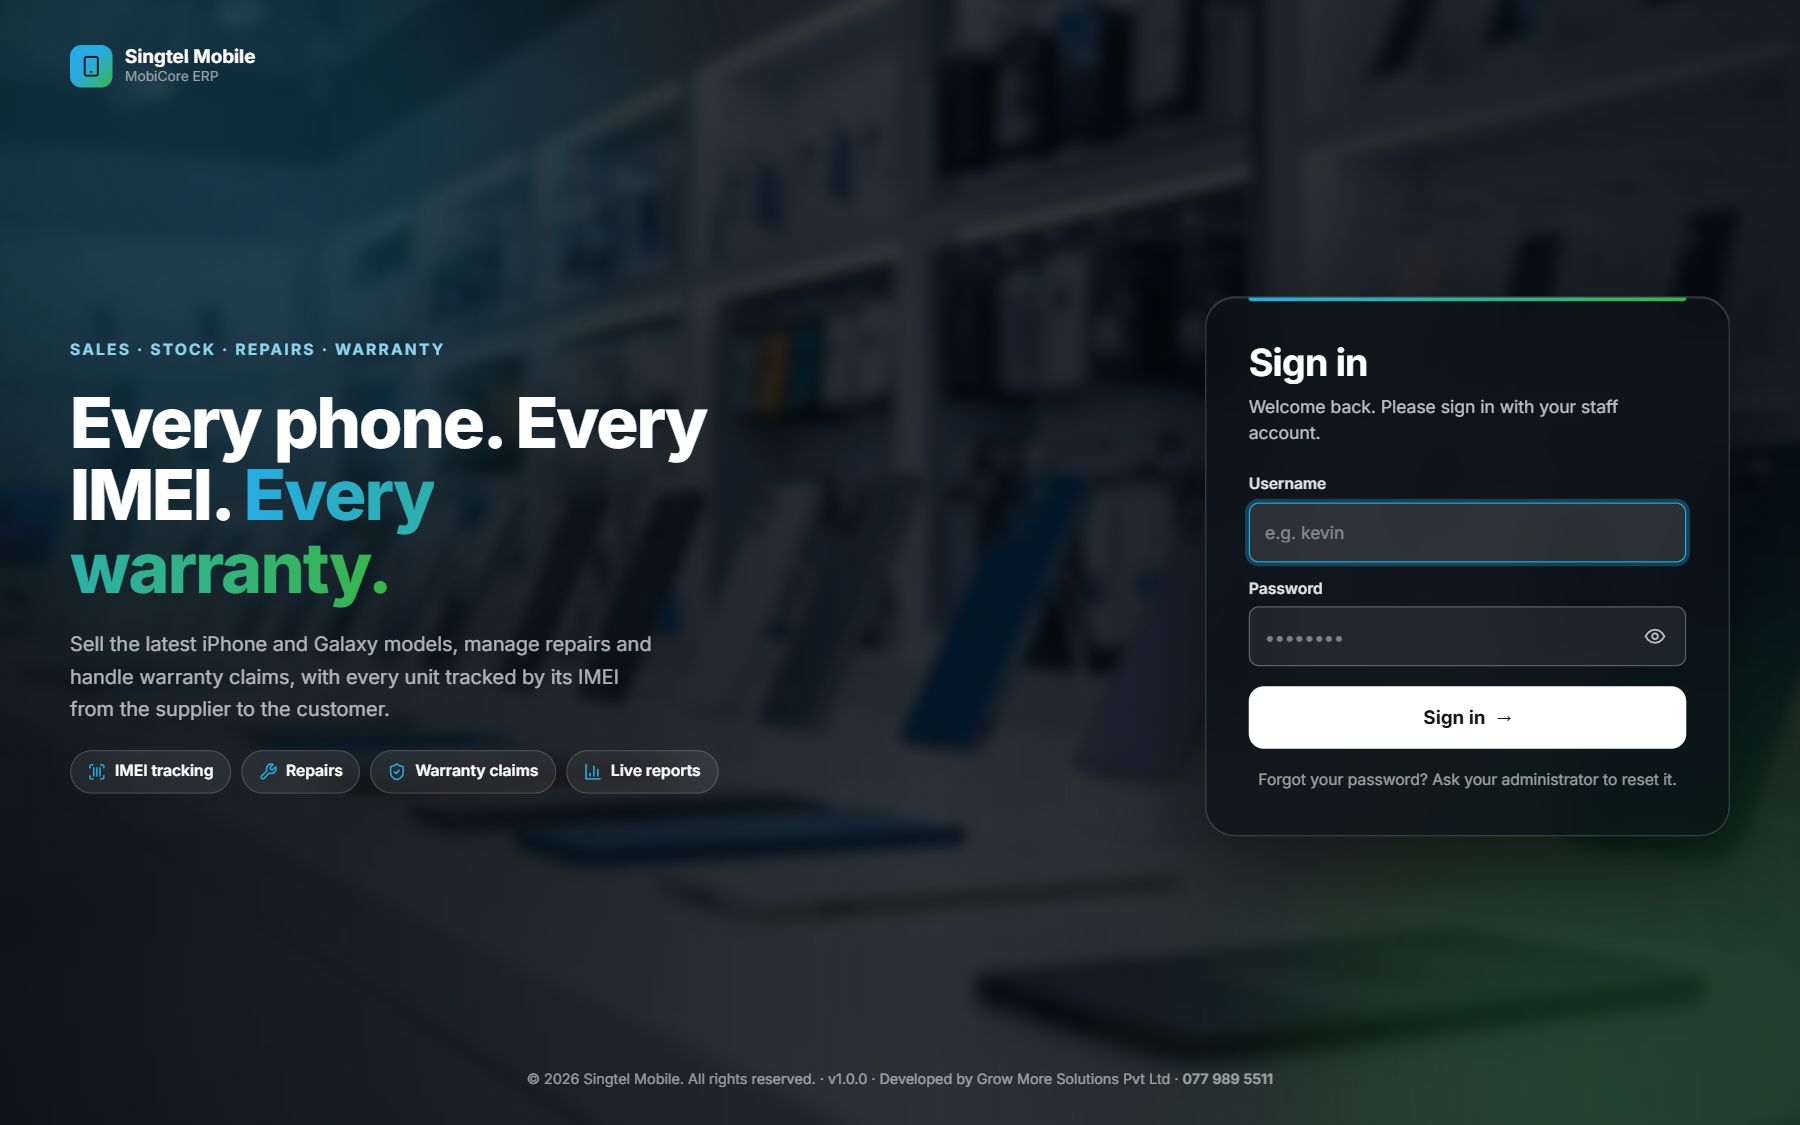
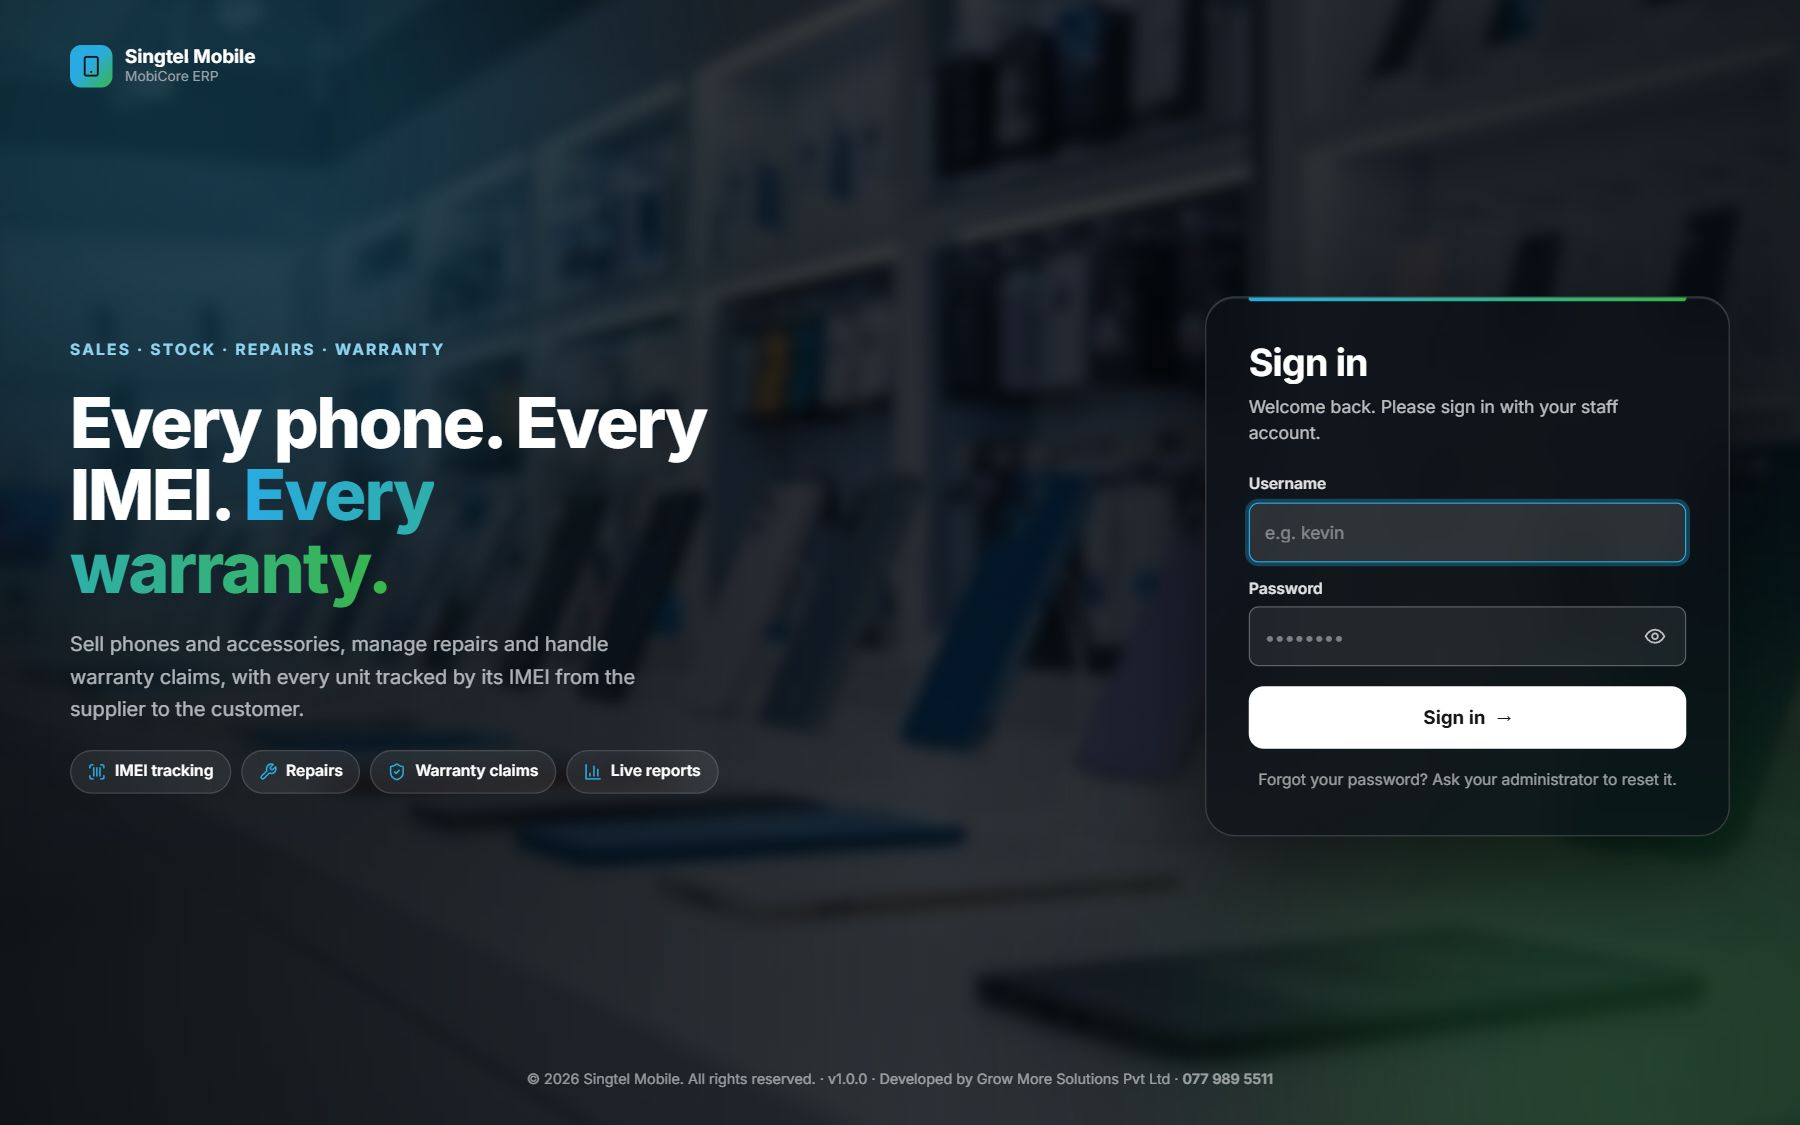
Login: brand-neutral description

Changed region(s): [[0.0311, 0.56, 0.3733, 0.6533]]

diff --git a/public/assets/js/app.js b/public/assets/js/app.js
@@ -103,7 +103,7 @@ function renderLogin() {
       <section class="lg-copy">
         <div class="lg-eyebrow">Sales · Stock · Repairs · Warranty</div>
         <h1>Every phone. Every IMEI. <span class="hero-grad">Every warranty.</span></h1>
-        <p>Sell the latest iPhone and Galaxy models, manage repairs and handle warranty claims, with every unit tracked by its IMEI from the supplier to the customer.</p>
+        <p>Sell phones and accessories, manage repairs and handle warranty claims, with every unit tracked by its IMEI from the supplier to the customer.</p>
         <div class="lg-tags">${[['scan', 'IMEI tracking'], ['wrench', 'Repairs'], ['shield', 'Warranty claims'], ['chart', 'Live reports']].map(([i, t]) => `<span class="lg-tag">${icon(i)}${t}</span>`).join('')}</div>
       </section>
       <section class="lg-card">
